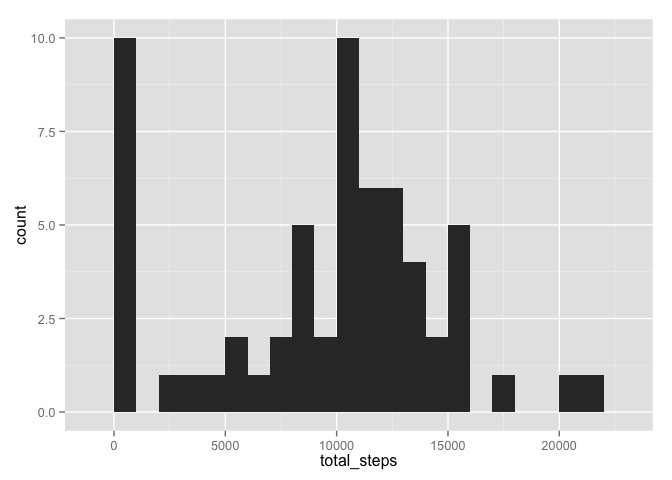
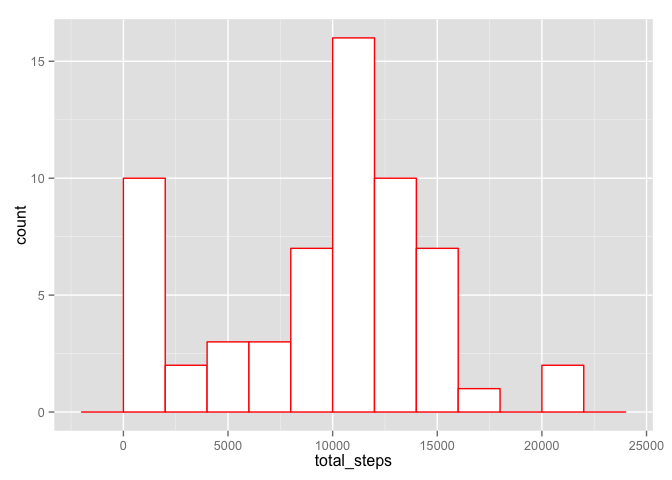
updated histogram

diff --git a/PA1_template.html b/PA1_template.html
@@ -99,7 +99,7 @@ setDT(indata)</code></pre>
 <div id="what-is-mean-total-number-of-steps-taken-per-day" class="section level2">
 <h2>What is mean total number of steps taken per day?</h2>
 <ol style="list-style-type: decimal">
-<li>To calculate the total number to steps taken per day, I use the data.table <em>by</em> feature to sum the total number of steps in a day. To ignore the missing values in the assignment, I set <em>na.rm=TRUE</em> in the sum function. As a result of this, days were steps were <strong>NA</strong> are treated as days where 0 (zero) steps were recorded. The head and tail of the resulting data.table <em>steps_perday</em> are shown in R output below:</li>
+<li>To calculate the total number to steps taken per day, I use the data.table <em>by</em> feature to sum the total number of steps in a day. To ignore the missing values in the assignment, I set <em>na.rm=TRUE</em> in the sum function. As a result of this, days where steps were <strong>NA</strong> are treated as days where 0 (zero) steps were recorded. The head and tail of the resulting data.table <em>steps_perday</em> are shown in R output below:</li>
 </ol>
 <pre class="r"><code>steps_perday &lt;- indata[ ,.(total_steps= sum(steps,na.rm = TRUE)), by= date]
 
@@ -117,12 +117,30 @@ head(steps_perday,5)</code></pre>
 ## 3: 2012-11-28       10183
 ## 4: 2012-11-29        7047
 ## 5: 2012-11-30           0</code></pre>
+<p><br /></p>
 <ol start="2" style="list-style-type: decimal">
 <li>Histogram of the total number of steps taken per day:</li>
 </ol>
-<pre class="r"><code>hist.steps_perday &lt;- ggplot(data = steps_perday, aes(total_steps)) + geom_histogram(binwidth=1000)
+<pre class="r"><code>hist.steps_perday &lt;- ggplot(data = steps_perday, aes(total_steps)) + 
+  geom_histogram(binwidth=2000,colour=&quot;red&quot;,fill=&quot;white&quot;)
+
 print(hist.steps_perday)</code></pre>
[2 lines of base64/hex data omitted]
+<p><br /></p>
+<ol start="3" style="list-style-type: decimal">
+<li>Mean and Median of total number of steps taken per day:</li>
+</ol>
+<pre class="r"><code>summary.steps_perday &lt;- steps_perday[, .( mean_steps= mean(total_steps, na.rm = TRUE),
+                                          median_steps= median(total_steps, na.rm = TRUE))
+                                     ]
+# Mean of total no. of steps taken per day:
+summary.steps_perday$mean_steps</code></pre>
+<pre><code>## [1] 9354.23</code></pre>
+<pre class="r"><code># Median of total no. of steps taken per day:
+summary.steps_perday$median_steps</code></pre>
+<pre><code>## [1] 10395</code></pre>
+<p>So the <strong>Mean</strong> and <strong>Median</strong> of total no. of steps taken per day are <strong>9354.23</strong> and <strong>10395</strong> respectively.</p>
+<p><br /></p>
 </div>
 <div id="what-is-the-average-daily-activity-pattern" class="section level2">
 <h2>What is the average daily activity pattern?</h2>

diff --git a/PA1_template.md b/PA1_template.md
@@ -57,7 +57,7 @@ indata
 
 ## What is mean total number of steps taken per day?
 
-1. To calculate the total number to steps taken per day, I use the data.table *by* feature to sum the total number of steps in a day. To ignore the missing values in the assignment, I set *na.rm=TRUE* in the sum function. As a result of this, days were steps were **NA** are treated as days where 0 (zero) steps were recorded. The head and tail of the resulting data.table *steps_perday* are shown in R output below:
+1. To calculate the total number to steps taken per day, I use the data.table *by* feature to sum the total number of steps in a day. To ignore the missing values in the assignment, I set *na.rm=TRUE* in the sum function. As a result of this, days where steps were **NA** are treated as days where 0 (zero) steps were recorded. The head and tail of the resulting data.table *steps_perday* are shown in R output below:
 
 
 ```r
@@ -88,15 +88,49 @@ tail(steps_perday,5)
 ## 5: 2012-11-30           0
 ```
 
+\
+
+
 2. Histogram of the total number of steps taken per day:
 
 
 ```r
-hist.steps_perday <- ggplot(data = steps_perday, aes(total_steps)) + geom_histogram(binwidth=1000)
+hist.steps_perday <- ggplot(data = steps_perday, aes(total_steps)) + 
+  geom_histogram(binwidth=2000,colour="red",fill="white")
+
 print(hist.steps_perday)
 ```
 
 ![](PA1_template_files/figure-html/steps/day-hist-1.png) 
+
+\
+
+
+3. Mean and Median of total number of steps taken per day:
+
+```r
+summary.steps_perday <- steps_perday[, .( mean_steps= mean(total_steps, na.rm = TRUE),
+                                          median_steps= median(total_steps, na.rm = TRUE))
+                                     ]
+# Mean of total no. of steps taken per day:
+summary.steps_perday$mean_steps
+```
+
+```
+## [1] 9354.23
+```
+
+```r
+# Median of total no. of steps taken per day:
+summary.steps_perday$median_steps
+```
+
+```
+## [1] 10395
+```
+So the **Mean** and **Median** of total no. of steps taken per day are **9354.23** and **10395** respectively.  
+
+\
 
 
 ## What is the average daily activity pattern?
